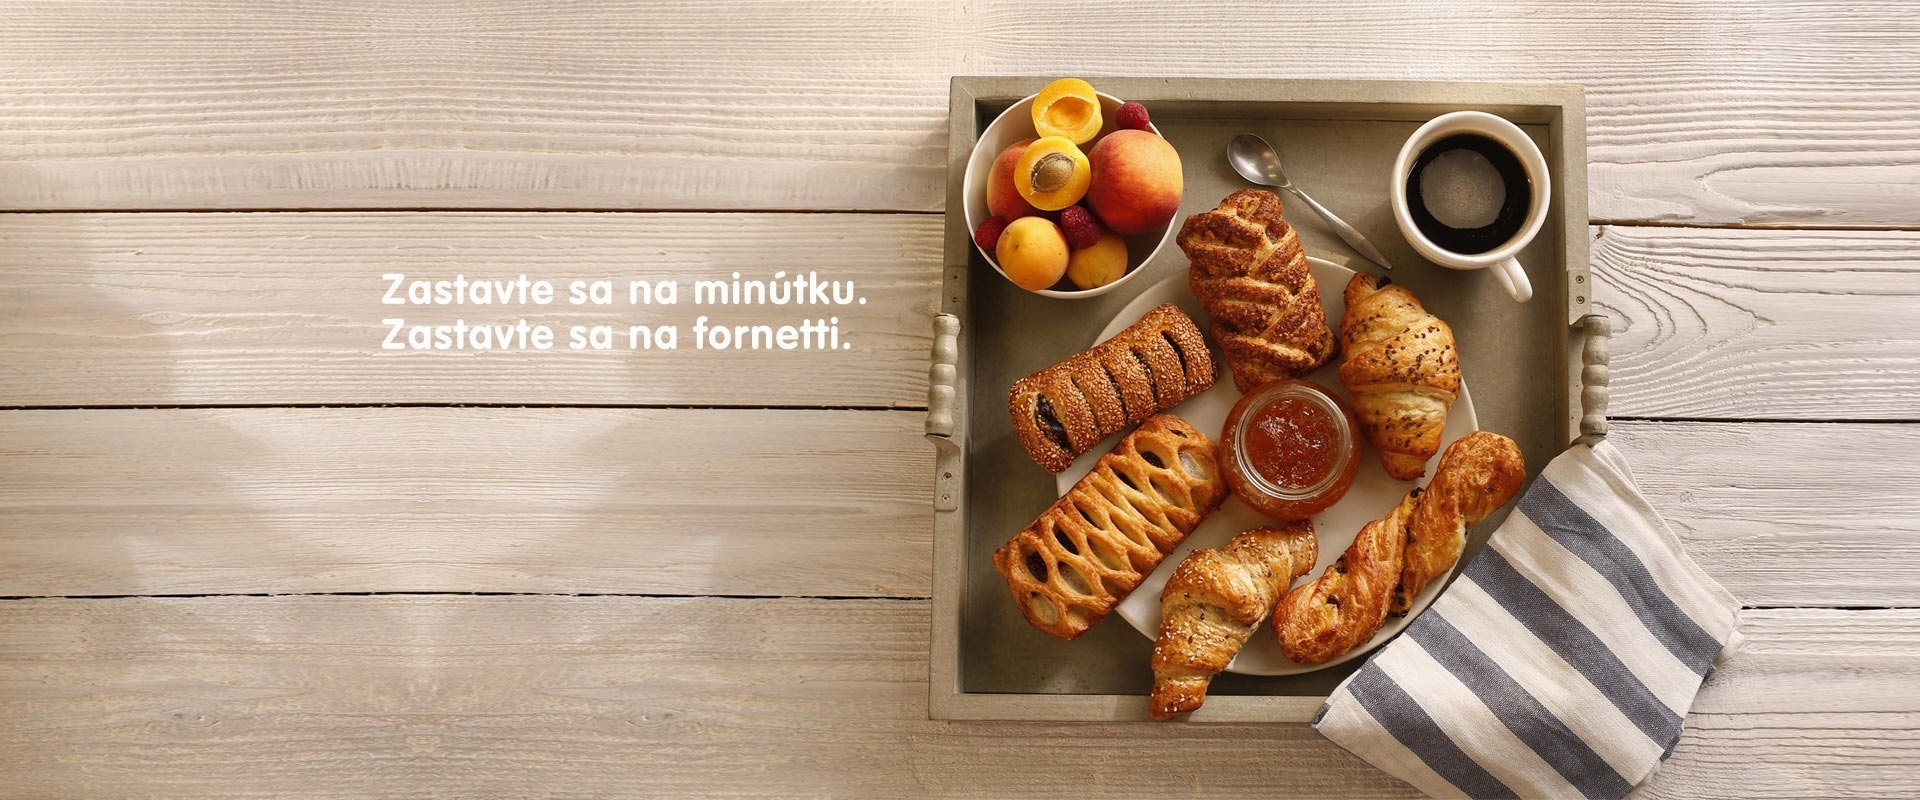
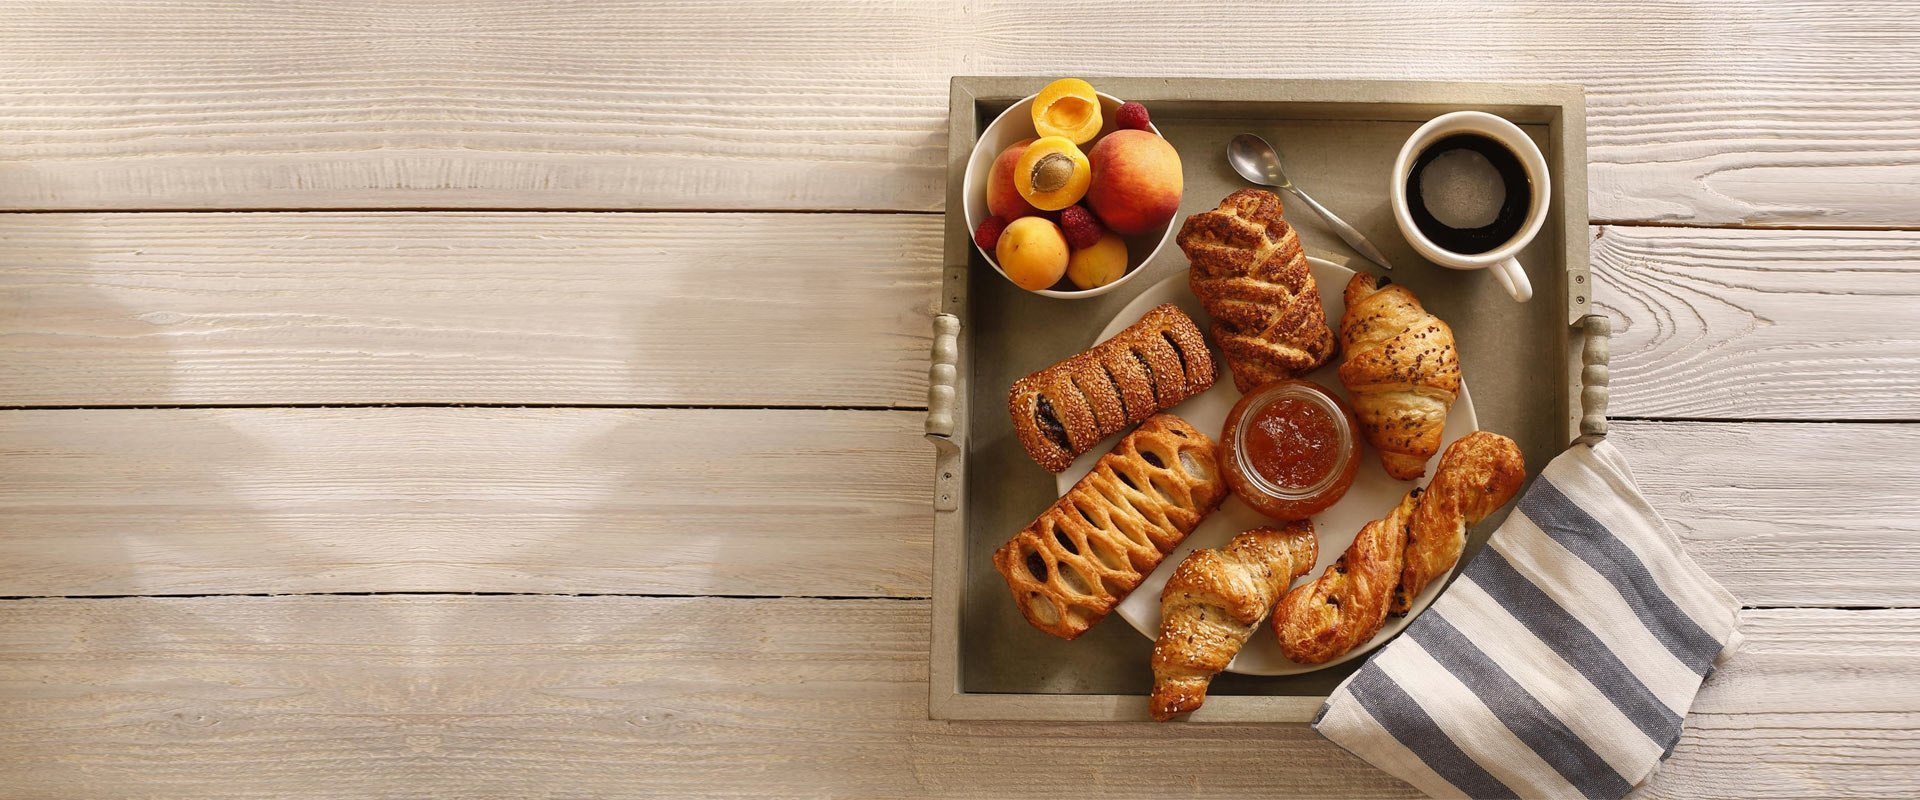
changed bg image in splash

Changed region(s): [[0.1875, 0.3438, 0.4688, 0.4375]]

diff --git a/src/less/components/splash.less b/src/less/components/splash.less
@@ -37,7 +37,7 @@
 
         }
         .page-pro-partnery & {
-            background-image: url(../img/bg-partners-solid.jpg);
+            background-image: url(../img/bg-partners.jpg);
         }
 
     }
